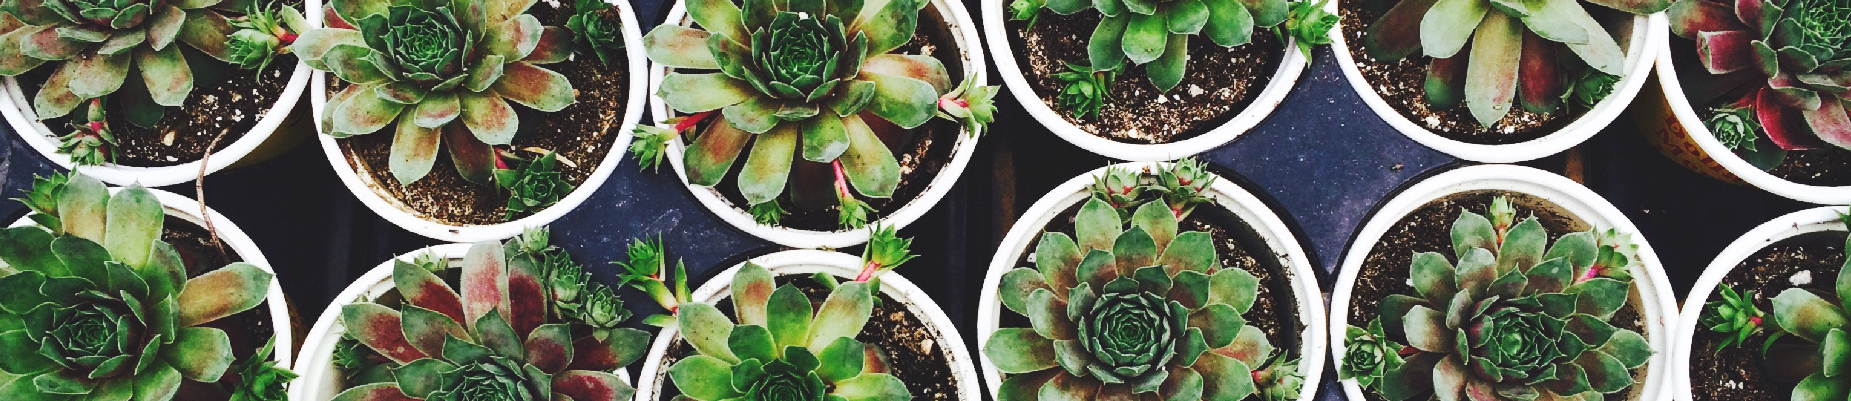
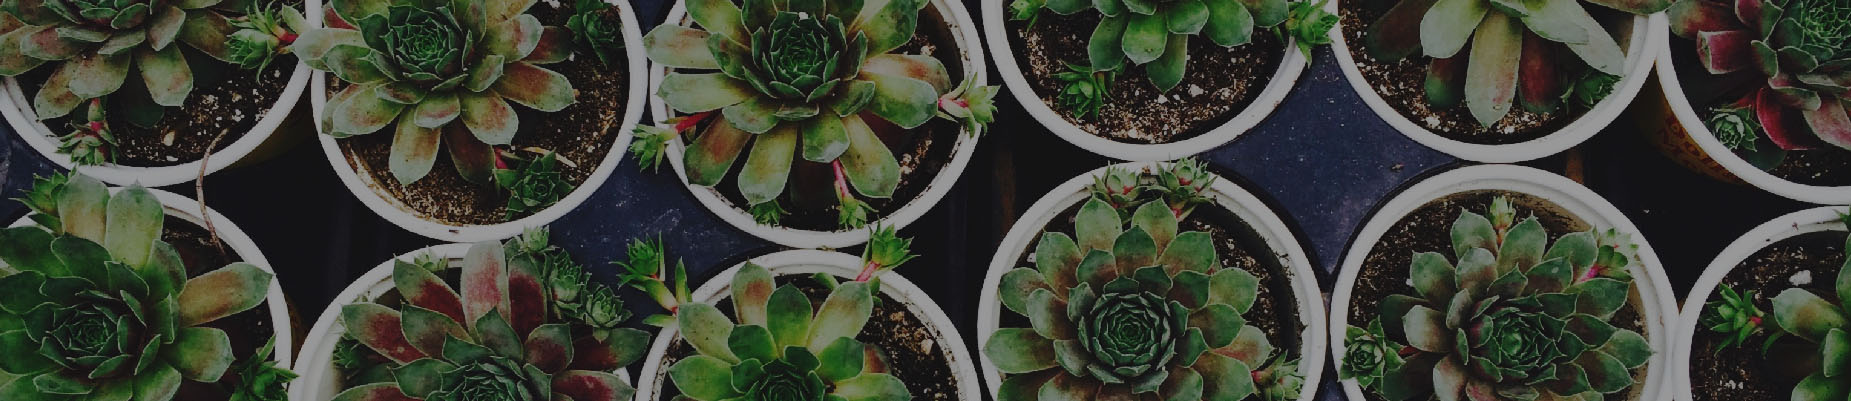
final_form

diff --git a/index.html b/index.html
@@ -21,6 +21,9 @@
     <!-- Custom styles for this template -->
     <link href="css/grayscale.min.css" rel="stylesheet">
     <link href="succulents.css" rel="stylesheet" type="text/css">
+    
+<!--    Favicon-->
+ <link rel="icon" href="favicon.png" type="image/gif" sizes="16x16">
   </head>
 
   <body id="page-top">
@@ -95,7 +98,7 @@
         <div class="col-lg-8 mx-auto">
           <h2>Succulent Varieties</h2>
           <p>Find a plant that best fits you!</p>
-          <a href="http://startbootstrap.com/template-overviews/grayscale/" class="btn btn-default btn-lg">View varieties</a>
+          <a href="varieties.html" class="btn btn-default btn-lg">View varieties</a>
         </div>
       </div>
     </section>
@@ -108,12 +111,11 @@
          <p>Find the perfect home for your new plant companion!</p>
          
          <div class="row">
-			  <div class="col-lg-4">
+			  <div class="col-lg-4 col-md-6">
 				<div class="thumbnail">
-				  <img src="..." alt="...">
+				  <img src="img/habitats/hanging.jpg" width="150" alt=""/>
 				  <div class="caption">
-					<h3>Thumbnail label</h3>
-					<p>...</p>
+					<h3>Hanging Pot</h3>
 					
 				  </div>
 				</div>
@@ -121,12 +123,11 @@
 
 
 
-			  <div class="col-lg-4">
+			  <div class="col-lg-4 col-md-6">
 				<div class="thumbnail">
-				  <img src="..." alt="...">
-				  <div class="caption">
-					<h3>Thumbnail label</h3>
-					<p>...</p>
+				 <img src="img/habitats/animal.jpg" width="150" alt=""/>
+				<div class="caption">
+					<h3>Fun Animal Pot</h3>	
 					
 				  </div>
 				</div>
@@ -134,18 +135,59 @@
 
 
 
-			  <div class="col-lg-4">
+			  <div class="col-lg-4 col-md-6">
 				<div class="thumbnail">
-				  <img src="..." alt="...">
-				  <div class="caption">
-					<h3>Thumbnail label</h3>
-					<p>...</p>
+				  <img src="img/habitats/terrarium.jpg" width="150" alt=""/>
+					<div class="caption">
+			  <h3>Glass Terrarium</h3>
+					
 					
 				  </div>
 				</div>
 			  </div>
 		</div>
           
+          
+       
+         <p>Pick out the cutest creatures totruley bring your habitat to life!</p>
+         
+         <div class="row">
+			  <div class="col-lg-4 col-md-6">
+				<div class="thumbnail">
+				  <img src="img/habitats/dinos.jpg" width="150" alt=""/>
+				  <div class="caption">
+					<h3>ferocious Dinosaurs</h3>
+					
+				  </div>
+				</div>
+			  </div>
+
+
+
+			  <div class="col-lg-4 col-md-6">
+				<div class="thumbnail">
+				 <img src="img/habitats/zoo.jpg" width="150" alt=""/>
+				<div class="caption">
+					<h3>zoo animals</h3>	
+					
+				  </div>
+				</div>
+			  </div>
+
+
+
+			  <div class="col-lg-4 col-md-6">
+				<div class="thumbnail">
+				  <img src="img/habitats/unicorns.jpg" width="150" alt=""/>
+					<div class="caption">
+			  <h3>Magical Unicorns</h3>
+					
+					
+				  </div>
+				</div>
+			  </div>
+		</div>
+       
         </div>
       </div>
     </section>
@@ -153,8 +195,7 @@
      <!-- Contact Section -->
       <section id="love" class="content-section text-center">
       <div class="container">
-        
-      </div>
+        <h1 class="brand-heading">WE ♥ SUCCULENTS!</h1>
     </section>
     
     <!-- Contact Section -->
@@ -162,30 +203,52 @@
       <div class="container">
         <div class="row">
           <div class="col-lg-8 mx-auto">
-            <h2>Contact Start Bootstrap</h2>
-            <p>Feel free to leave us a comment on the
-              <a href="http://startbootstrap.com/template-overviews/grayscale/">Grayscale template overview page</a>
-              on Start Bootstrap to give some feedback about this theme!</p>
-            <ul class="list-inline banner-social-buttons">
-              <li class="list-inline-item">
-                <a href="https://twitter.com/SBootstrap" class="btn btn-default btn-lg">
-                  <i class="fa fa-twitter fa-fw"></i>
-                  <span class="network-name">Twitter</span>
-                </a>
-              </li>
-              <li class="list-inline-item">
-                <a href="https://github.com/BlackrockDigital/startbootstrap" class="btn btn-default btn-lg">
-                  <i class="fa fa-github fa-fw"></i>
-                  <span class="network-name">Github</span>
-                </a>
-              </li>
-              <li class="list-inline-item">
-                <a href="https://plus.google.com/+Startbootstrap/posts" class="btn btn-default btn-lg">
-                  <i class="fa fa-google-plus fa-fw"></i>
-                  <span class="network-name">Google+</span>
-                </a>
-              </li>
-            </ul>
+           
+          
+          
+           <form method="POST" id="enforcement" action="http://formspree.io/aem120120@gmail.com">
+			  <h2>Get in touch</h2>
+			  <p>If you would like to contact us, please fill out the form below. </p>
+			  
+				  <div class="form-group">
+				  <label id="name" for="Name">Your Name</label>
+				  <div class="form-row">
+				  
+					<div class="col">
+			  	
+				  	<label for="first_name"></label>
+					  <input type="text"  name="first_name" class="form-control" placeholder="First name">
+					</div>
+					<div class="col">
+				  		<label for="last_name"></label>
+					  <input type="text" name="last_name" class="form-control" placeholder="Last name">
+					</div>
+				  </div>
+				  </div>
+				  
+				  <div class="form-group">
+					<label for="email_1">Your email address</label>
+					<input type="text" name="email_1" class="form-control" id="email" >
+							
+				   
+				  
+				  <div class="form-group">
+					<label for="phone">Your phone number (optional)</label>
+					<input type="text" name="phone" class="form-control" id="telephone" >
+				  </div>
+				  
+					<div class="form-group">
+					<label for="message">Message</label>
+					<textarea class="form-control"  name="message" id="exampleFormControlTextarea1" rows="6"></textarea>
+				  </div>										
+													
+				</div>
+					<input type="submit" class="btn  submit"></input>
+																
+																																		
+				</form>
+         
+         
           </div>
         </div>
       </div>

diff --git a/varieties.html b/varieties.html
@@ -22,6 +22,8 @@
     <link href="css/grayscale.min.css" rel="stylesheet">
     <link href="succulents.css" rel="stylesheet" type="text/css">
      
+<!--     Favicon-->
+      <link rel="icon" href="favicon.png" type="image/gif" sizes="16x16">
      
   </head>
 
@@ -89,19 +91,19 @@
 
         <div class="row">
           
-          <div class="col-md-3 mx-auto">
+          <div class="col-lg-3 col-md-6 mx-auto">
 			  <a class="myBtn" id="aloe" title="aloe" href="#"><img src="img/cards/aloe_card.png" width="200"  alt=""/> </a>
           </div>
           
-          <div class="col-md-3 mx-auto">
+          <div class="col-lg-3 col-md-6 mx-auto">
 			  <a class="myBtn" id="burros" title="burros" href="#"><img src="img/cards/burros_card.png" width="200"  alt=""/></a> 
           </div>
           
-          <div class="col-md-3 mx-auto">
+          <div class="col-lg-3 col-md-6 mx-auto">
 			  <a class="myBtn" id="echeveria" title="echeveria" ><img src="img/cards/echeveria_card.png" width="200"  alt=""/> </a>
           </div>
           
-           <div class="col-md-3 mx-auto">
+           <div class="col-lg-3 col-md-6 mx-auto">
 			   <a class="myBtn" id="graptoveria" title="graptoveria" ><img src="img/cards/graptoveria_card.png" width="200"  alt=""/> </a>
           </div>
           
@@ -110,19 +112,19 @@
         
         <div class="row">
           
-          <div class="col-md-3 mx-auto">
+          <div class="col-lg-3 col-md-6 mx-auto">
           <a class="myBtn" id="hens_chicks" title="hens_chicks"><img src="img/cards/hens_chicks_card.png" width="200"  alt=""/> </a>
           </div>
           
-          <div class="col-md-3 mx-auto">
+          <div class="col-lg-3 col-md-6 mx-auto">
           <a class="myBtn" id="jade" title="jade"><img src="img/cards/jade_card.png" width="200"  alt=""/> </a>
           </div>
           
-          <div class="col-md-3 mx-auto">
+          <div class="col-lg-3 col-md-6 mx-auto">
           <a class="myBtn" id="kalanchoe" title="kalanchoe"><img src="img/cards/kalanchoe_card.png" width="200"  alt=""/> </a>
           </div>
           
-           <div class="col-md-3 mx-auto">
+           <div class="col-lg-3 col-md-6 mx-auto">
           <a class="myBtn" id="lithops" title="lithops"><img src="img/cards/lithops_card.png" width="200"  alt=""/> </a>
           </div>
           
@@ -130,19 +132,19 @@
         
         <div class="row">
           
-          <div class="col-md-3 mx-auto">
+          <div class="col-lg-3 col-md-6 mx-auto">
           <a class="myBtn" id="panda" title="panda"><img src="img/cards/panda_card.png" width="200"  alt=""/> </a>
           </div>
           
-          <div class="col-md-3 mx-auto">
+          <div class="col-lg-3 col-md-6 mx-auto">
           <a class="myBtn" id="pastel" title="pastel"><img src="img/cards/pastel_card.png" width="200"  alt=""/> </a>
           </div>
           
-          <div class="col-md-3 mx-auto">
+          <div class="col-lg-3 col-md-6 mx-auto">
           <a class="myBtn" id="snake" title="snake"><img src="img/cards/snake_card.png" width="200"  alt=""/> </a>
           </div>
           
-           <div class="col-md-3 mx-auto">
+           <div class="col-lg-3 col-md-6 mx-auto">
           <a class="myBtn" id="zebra" title="zebra"><img src="img/cards/zebra_card.png" width="200"  alt=""/> </a>
           </div>
           

diff --git a/js/simple_leaf.js b/js/simple_leaf.js
@@ -26,6 +26,48 @@ $(document).ready(function() {
 			});
 		}
 	); // end click
+	
+	$("#email_form").validate({
+		rules: {
+			first_name: {
+				required: true,
+				minlength: 2
+			},
+			last_name: {
+				required: true,
+				minlength: 2
+			},
+			email_1: {
+				required: true,
+				email: true
+			},
+			phone: {
+				digits:true,
+				minlength: 10,
+				maxlength: 10
+			}
+		
+			
+		},
+		
+		messages: {
+		
+		first_name: {
+			minlength: "Please enter at least 2 characters"
+				
+		},
+		last_name: {
+			
+			minlength: "Please enter at least 2 characters"
+	    },
+		
+		phone: {
+			minlength:"Please enter your 10-digit phone number",
+			maxlength:"Please only enter you 10-digit phone number"
+		}
+	
+		
+}); // end validate
 }); // end ready
 
 

diff --git a/succulents.css b/succulents.css
@@ -17,7 +17,8 @@ footer {
 }
 
 #love {
-	background-image: url(img/bar3.jpg);
+	background-image: url(img/bar.jpg);
+	background-repeat: no-repeat;
 }
 
 #cards {
@@ -31,4 +32,35 @@ footer {
 	margin-bottom :30px;
 	
 }
+
+.modal-body {
+	color:black;
+}
+
+.modal-body img {
+	padding-left:80px;
+
+}
+
+.thumbnail h3 {
+	margin-top:8px;
+}
+form {
+	text-align:left;
+}
+
+form label {
+	margin:8px;
+}
+
+.submit {
+	background-color: #efc7d8;
+	border-radius: 4px;	
+	
+}
+
+.btn:focus,.btn:hover {
+	background-color: #F2A1C4;
+}
+
 
